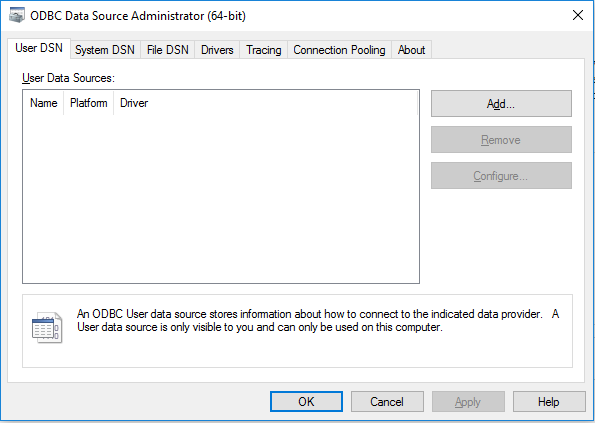
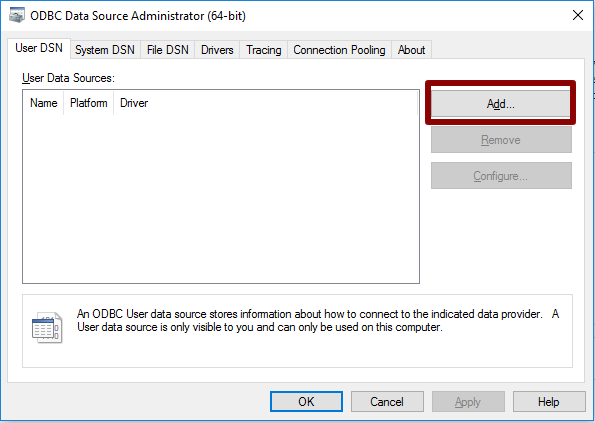
odbc updates

Changed region(s): [[0.6958, 0.1844, 0.9681, 0.3073]]

diff --git a/ODBC.md b/ODBC.md
@@ -1,0 +1,62 @@
+---
+layout: default
+title: ODBC Setup
+---
+<div class="alert alert-success" role="alert"> This page describes the 
+<strong>
+<span class="cig">{{ site.cig_text }}</span>
+<span class="onp">{{ site.onp_text }}</span>
+<span class="hdi">{{ site.hdi_text }}</span> 
+</strong>
+solution.
+ {% include choices.md %}
+
+</div> 
+
+## Set up Connection between Hive and PowerBI  
+
+Follow the instructions below to set up a connection between your Hive table and PowerBI.  Perform these steps after you have <a href="Typical.html">created the Hive tables by executiong the <strong>development_main.R</strong> and <strong>production_main.R</strong> </a> scripts.
+
+<ol>
+<li class="hdi">Download and install the <a href="https://www.microsoft.com/en-us/download/details.aspx?id=49883">Spark ODBC driver.</a> If you already have this driver, make sure it version 1.2.4.1005 or greater. </li>
+<li>	Push the <code>Windows</code> key on your keyboard</li>
+<li>	Type <code>ODBC</code> </li>
+<li>	Open the correct app depending on what type of computer you are using (64 bit or 32 bit). To find out if your computer is running 32-bit or 64-bit Windows, do the following:
+<ul>
+<li>	Open System by clicking the <code>Start</code> button, clicking <code>Control Panel</code>, clicking <code>System and Maintenance</code>, and then clicking <code>System</code>.</li>
+<li>.	Under System, you can view the system type</li>
+</ul>
+</li>
+<li>	Click on <code>Add</code>
+  <br/>
+<img src="images/odbc1.png" width="50%" >
+</li>
+<li>
+Select <code>Microsoft Spark ODBC Driver</code> and click <code>Finish</code><span class=""></span>
+<img src="images/odbcs2.png" width="50%" >
+</li>
+<li class="hdi">
+Under Name, Enter <code>loan credit risk</code>. Add the Host name (of the form <i>myclustername.azurehdinsight.net</i>).  
+<br/>
+<img src="images/odbcs3.png" width="50%" >
+</li>
+
+<li>Press <code>Finish</code>.
+</li>
+</div>
+
+
+<li>
+Press <code>Test</code>.
+</li> 
+<li>	Press <code>OK</code> in the new popover. This will close the popover and return to the previous popovers.
+<br/>
+<img src="images/odbcs7.png" width="50%" >
+</li>
+<li>	Now that the Data Source is tested. Press <code>OK</code>.
+</li>
+<li>	Finally, click <code>OK</code> and close the window.
+</li>
+<p></p>
+You are now ready to use this connection in PowerBI.
+<p></p>
